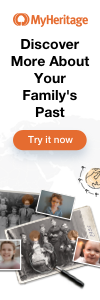
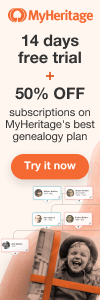
new FTM image; new MH ads

diff --git a/skins/MonoBook.php b/skins/MonoBook.php
@@ -659,7 +659,7 @@ END;
                <?php
                if ($mainPage) {
                   if ($wgUser->getOption('wrnoads') < $now) {
-               ?><div id="mh_ad" style="margin: 32px 0 0 16px"><a href="https://www.myheritage.com/search-records?utm_source=partner_werelate&utm_medium=partner&utm_campaign=werelate_hpSmall2020&tr_funnel=supersearch">
+               ?><div id="mh_ad" style="margin: 32px 0 0 16px"><a href="https://www.myheritage.com/?utm_source=partner_werelate&utm_medium=partner&utm_campaign=werelate_homepageweb&tr_funnel=web">
                   <img src="/w/skins/common/images/mh_ad_100x300.png"/>
                </a></div><?php
                   }
@@ -724,7 +724,25 @@ if ($wgTitle->getNamespace() == NS_PERSON) {
   if (count($namePieces) > 1 && $namePieces[1] != "Unknown" && substr($namePieces[1], 0, 1) != "(") {
     $lastName = urlencode($namePieces[1]);
   }
-  echo '<div style="margin-top: 20px"><iframe height="600" width="300" src="https://www.myheritage.com/FP/partner-widget.php?partnerName=werelate&clientId=3401&campaignId=Mixed_Records_300x600&widget=tree&width=300&height=600&onSitePlacement=Mixed_Records_300x600&tr_ifid=werelate_281825853&firstName='.$firstName.'&lastName='.$lastName.'&tr_device="></iframe></div>';
+//  echo '<div style="margin-top: 20px"><iframe height="600" width="300" src="https://www.myheritage.com/FP/partner-widget.php?partnerName=werelate&clientId=3401&campaignId=Mixed_Records_300x600&widget=tree&width=300&height=600&onSitePlacement=Mixed_Records_300x600&tr_ifid=werelate_281825853&firstName='.$firstName.'&lastName='.$lastName.'&tr_device="></iframe></div>';
+  echo <<<EOL
+<div style="margin-top: 20px">
+<ins class='dcmads' style='display:inline-block; width:300px; height:600px'
+    data-dcm-placement='N217801.2353305WERELATE.ORG/B9799048.368900133'
+    data-dcm-rendering-mode='iframe'
+    data-dcm-https-only
+    data-dcm-api-frameworks='[APIFRAMEWORKS]'
+    data-dcm-omid-partner='[OMIDPARTNER]'
+    data-dcm-gdpr-applies='gdpr=${GDPR}'
+    data-dcm-gdpr-consent='gdpr_consent=${GDPR_CONSENT_755}'
+    data-dcm-addtl-consent='addtl_consent=${ADDTL_CONSENT}'
+    data-dcm-ltd='false'
+    data-dcm-resettable-device-id=''
+    data-dcm-app-id=''>
+  <script src='https://www.googletagservices.com/dcm/dcmads.js'></script>
+</ins>
+</div>
+EOL;
 ?>
 <?php
 } else {
